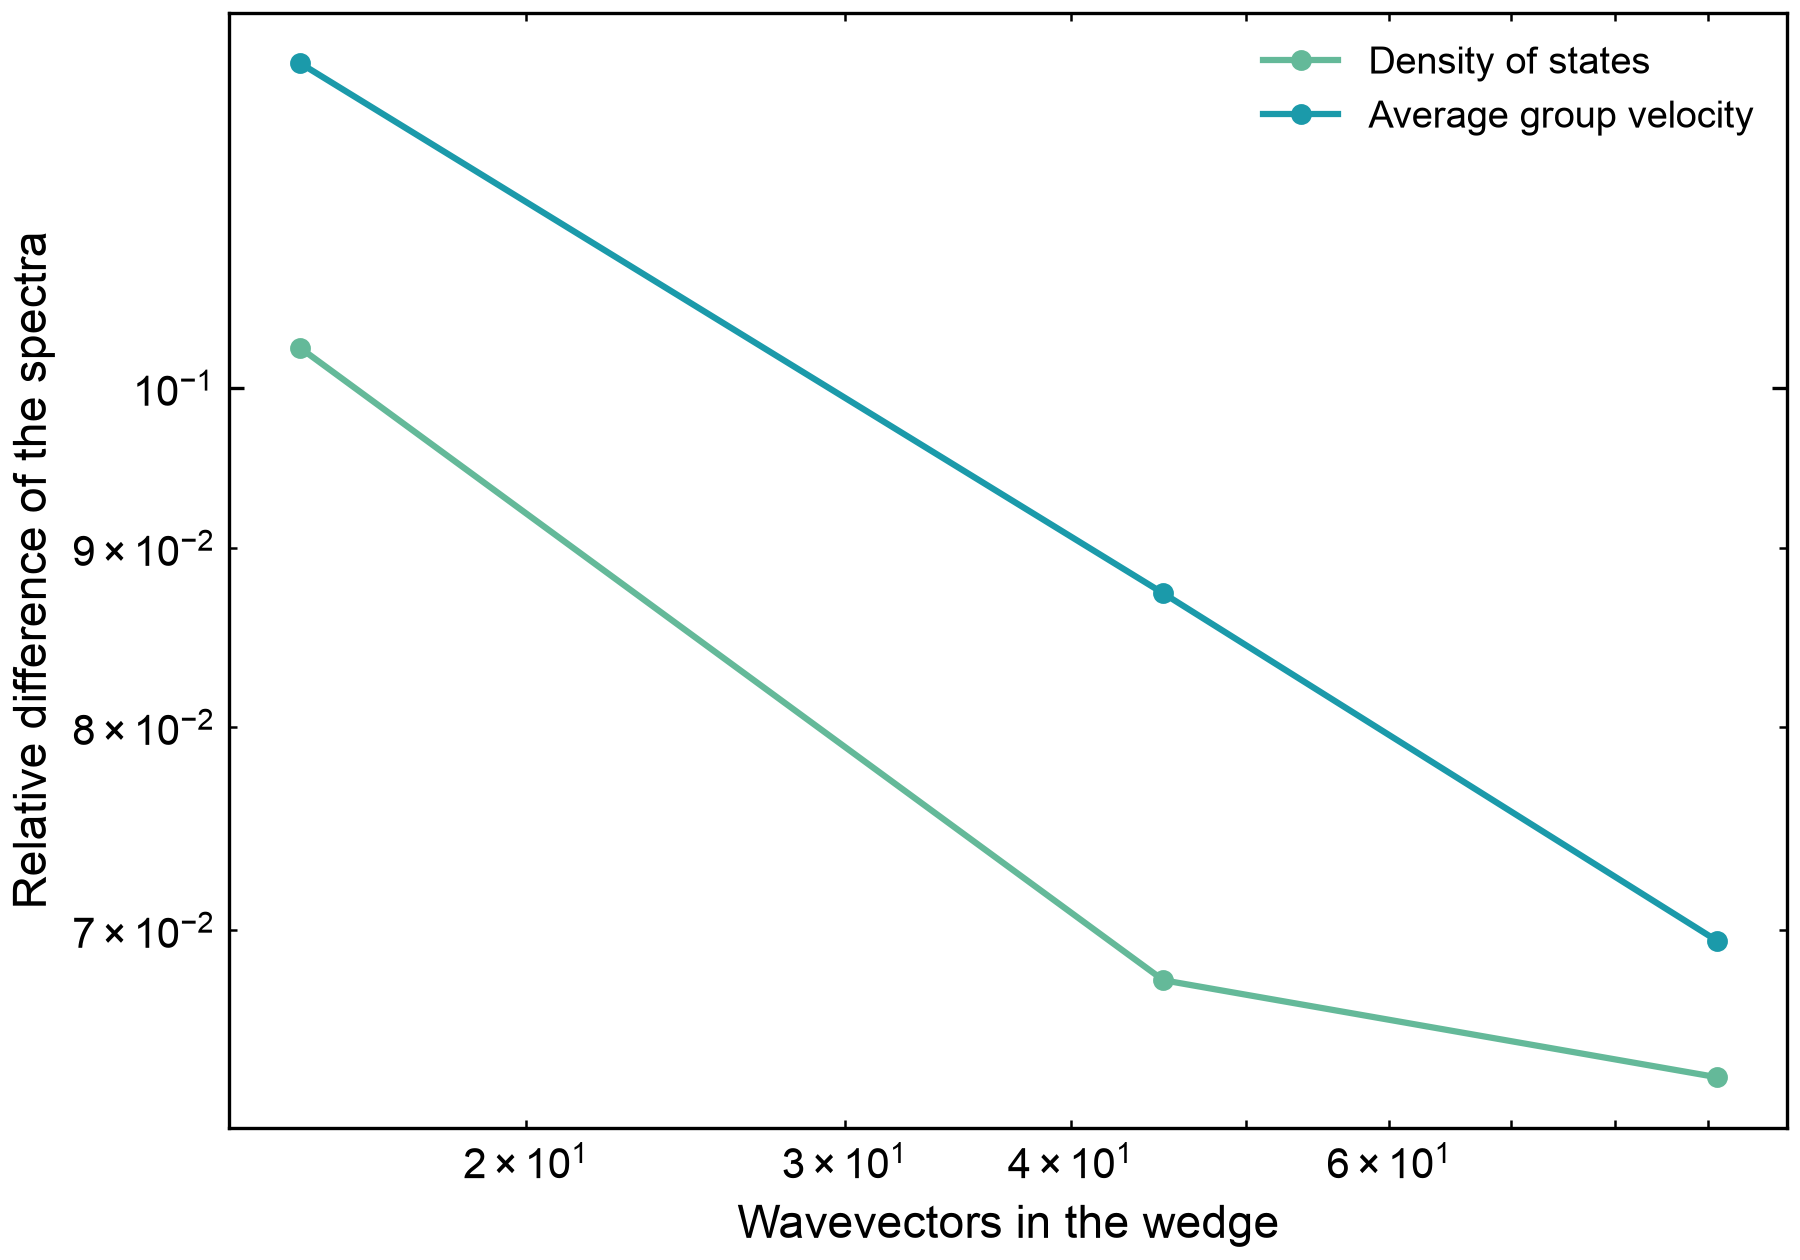
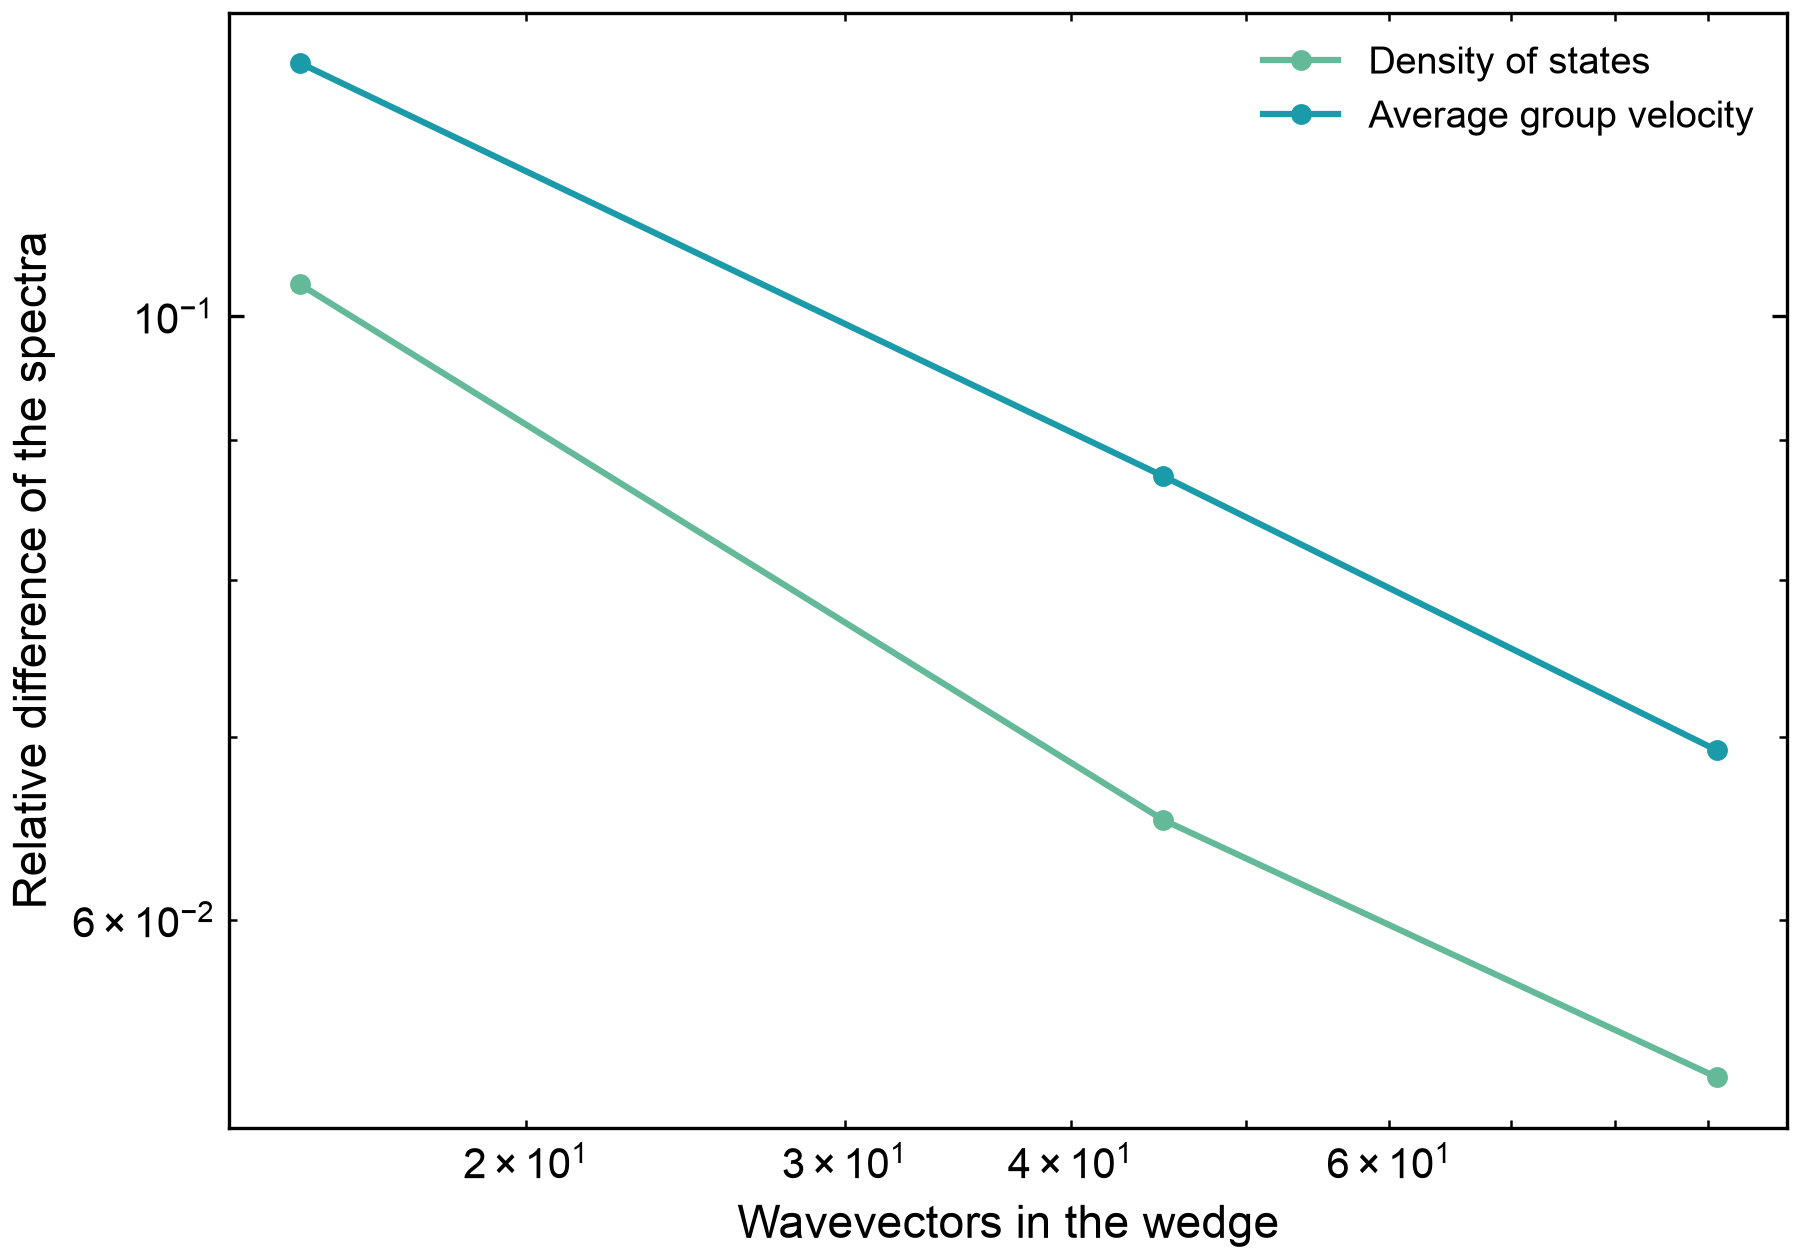
Document where the computed bands stop being complete
The lowest value of the topmost band over the zone, not the highest
frequency reached anywhere, and the show_incomplete switch.

diff --git a/docs/model-file.md b/docs/model-file.md
@@ -493,11 +493,13 @@ Spectra (`kind = "spectrum"`) sum the whole mesh into one curve against frequenc
 | `velocity` | the group velocity \|v\| = 2π\|∇ₖf\| averaged over the states at that frequency, weighted as the density of states is | m/s |
 | `flux` | the energy a convex boundary at `temperature` radiates into the structure, averaged over its directions | W Hz⁻¹ m⁻¹ (per unit length of that boundary) |
 
-A mesh of the irreducible wedge is multiplied by the number of copies that fill the zone (8 for a square lattice, 12 for a hexagonal one), taken from the area the mesh covers, which assumes what the wedge assumes: that the cell has the point symmetry of the lattice. Every band takes part; the curve falls away near the highest computed frequency, where the bands run out rather than the states, and near zero a branch is a cone that no triangulation resolves. `temperature` (the flux only) is an expression such as `"0.3[K]"`. A run writes each spectrum as `<name>.csv`. Reference: the methods of Zen et al., *Nat. Commun.* **5**:3435 (2014).
+A mesh of the irreducible wedge is multiplied by the number of copies that fill the zone (8 for a square lattice, 12 for a hexagonal one), taken from the area the mesh covers, which assumes what the wedge assumes: that the cell has the point symmetry of the lattice. Every band takes part. `temperature` (the flux only) is an expression such as `"0.3[K]"`. A run writes each spectrum as `<name>.csv`. Reference: the methods of Zen et al., *Nat. Commun.* **5**:3435 (2014).
+
+**Where the bands stop being complete.** A run computes a fixed number of bands at every wavevector, so every state is accounted for only below the *lowest* value the topmost band takes over the zone — often at Γ, where the folded bands of a membrane crowd together, though it can be at any corner of the zone. That frequency, not the highest one reached anywhere, is where a spectrum ends: above it states are missing and the curve sags towards zero, which looks like a physical cut-off and is not. Spectra and conductance curves stop there by default; `show_incomplete = true` carries them on as a lower bound and marks the frequency with a dashed line. If the topmost band itself falls to zero somewhere (too few bands for a membrane, whose acoustic branches vanish at Γ) no range is complete at all, and the plot says so. Near zero a branch is a cone that no triangulation resolves, so the lowest frequencies are unreliable at either end.
 
 Conductance plots (`kind = "conductance"`) integrate that heat flux over the computed bands and draw it against temperature, log-log by default: `transport` chooses between `conductance` (the ballistic thermal conductance G = dP/dT, in W K⁻¹ m⁻¹) and `power` (the radiated power P(T), in W m⁻¹), both per unit length of the boundary heat enters through. The curve runs from `t_min` to `t_max` over `t_points` points, spaced logarithmically while the x axis is, and `bins` sets the frequency quadrature as for a spectrum. The contour lengths do not depend on the temperature, so the mesh is summed once for the whole curve.
 
-**The integral stops at the highest computed band**, so a curve is a lower bound once the occupied frequencies k<sub>B</sub>T/h approach it, and it flattens instead of rising: a trustworthy point needs bands reaching roughly nine times k<sub>B</sub>T/h (19 GHz covers 99 % of the phonons at 0.1 K). The plot panel compares the two and says where the curve stops being reliable; raising `num_eigs` carries it higher. A run writes the curve as `<name>.csv`.
+**The integral stops where the bands stop being complete** (above), so a curve is a lower bound once the occupied frequencies k<sub>B</sub>T/h approach that line, and it flattens instead of rising: a trustworthy point needs complete bands up to roughly nine times k<sub>B</sub>T/h (19 GHz covers 99 % of the phonons at 0.1 K). The plot panel compares the two and says where the curve stops being reliable; raising `num_eigs` carries it higher. A run writes the curve as `<name>.csv`.
 
 Field plots (`kind = "field"`) show `quantity` on the structure (field results; empty = T or the displacement magnitude): any expression of the solution, evaluated at the nodes (gradients, fluxes, strains and stresses averaged over the elements meeting there), e.g. `"sqrt(qx^2 + qy^2 + qz^2)"` or `"mises"`. Mode shapes take `component` instead (`|u|` (default), `ux`, `uy`, `uz`). Under `[plots.style]`: `colormap`, `colorbar`, `title`, `outline` (undeformed outline) and `deform_scale` (largest displacement as a fraction of the model size).
 
@@ -512,7 +514,8 @@ Field plots (`kind = "field"`) show `quantity` on the structure (field results; 
 | `bands` | `6` | `surfaces`: how many bands are drawn from `band` up (0 = all) |
 | `ky_min`, `ky_max` | `""` | `kmap`, `surfaces`: range of the ky axis (`x_min`, `x_max` give the kx range) |
 | `spectrum` | `"dos"` | `spectrum`: `dos`, `velocity` or `flux` |
-| `bins` | `200` | `spectrum`: how many frequencies it is sampled at |
+| `bins` | `200` | `spectrum`, `conductance`: how many frequencies the curve or its integral is sampled at |
+| `show_incomplete` | `false` | `spectrum`, `conductance`: carry past the frequency where the bands stop being complete, marking it |
 | `temperature` | `"1[K]"` | `spectrum`, `flux`: temperature of the radiating boundary |
 | `transport` | `"conductance"` | `conductance`: `conductance` (G = dP/dT) or `power` (P) |
 | `t_min`, `t_max` | `"0.05[K]"`, `"1[K]"` | `conductance`: the temperature range of the curve |

diff --git a/docs/validation/report.md b/docs/validation/report.md
@@ -37,7 +37,7 @@ $$
 D(f) = \frac{1}{(2\pi)^2}\sum_j \frac{2\pi k_j}{|\mathrm{d}f/\mathrm{d}k|_j},\qquad \langle v\rangle(f) = 2\pi\frac{\sum_j k_j}{\sum_j k_j/|\mathrm{d}f/\mathrm{d}k|_j},
 $$
 
-evaluated on a dense grid of the exact branches. The two routes share nothing: one is a finite-element eigenproblem sampled over a two-dimensional zone of an invented cell, the other a one-dimensional analytic dispersion rotated in k-space. They must still agree, because the artificial cell only folds the states into its zone and folding moves no state. The comparison runs to $$ \omega t / c_\mathrm{T} = 10 $$, below which every computed band is present.
+evaluated on a dense grid of the exact branches. The two routes share nothing: one is a finite-element eigenproblem sampled over a two-dimensional zone of an invented cell, the other a one-dimensional analytic dispersion rotated in k-space. They must still agree, because the artificial cell only folds the states into its zone and folding moves no state. The comparison runs to $$ \omega t / c_\mathrm{T} = 10 $$, which is below the frequency where the sixteen computed bands stop being complete — the lowest value the topmost of them takes over the zone, not the highest frequency any of them reaches.
 
 What is left over is the price of sampling. Bands are numbered by ascending frequency at each wavevector, so where two branches cross, the surfaces kink; a mesh of flat triangles cuts those corners and flattens the gradients. The density of states weights each contour by the gradient and feels this only weakly, while the group velocity and everything built on the contour length alone (the heat flux, the conductance) carry a systematic deficit. Both shrink as the wavevector mesh is refined, and both are the argument for sorting the surfaces into branches, which this release does not do. The last check is the quantity those spectra are for: the ballistic conductance at 0.1 K, with both routes integrated over the same window, so that what is compared is the sampling of the zone and not the states left above it.
 
@@ -45,9 +45,9 @@ What is left over is the price of sampling. Bands are numbered by ascending freq
 
 <figure><img src="../images/validation/zone_convergence.png" alt="Both spectra approach the exact ones as the wavevector mesh is refined; the finite-element mesh is unchanged throughout, so what converges here is the sampling of the zone."><figcaption><p>Both spectra approach the exact ones as the wavevector mesh is refined; the finite-element mesh is unchanged throughout, so what converges here is the sampling of the zone.</p></figcaption></figure>
 
-Wavevectors 15 / 45 / 91: the density of states differs from the exact one by 10.3 %, 6.8 %, 6.4 %, the group velocity by 12.4 %, 8.7 %, 7.0 %. Over the same window the states below it carry 4.04e-07 W/(K m) at 0.1 K, against 4.57e-07 W/(K m) exactly (-12 %).
+Wavevectors 15 / 45 / 91: the density of states differs from the exact one by 10.3 %, 6.5 %, 5.3 %, the group velocity by 12.4 %, 8.7 %, 6.9 %. Over the same window the states below it carry 4.04e-07 W/(K m) at 0.1 K, against 4.57e-07 W/(K m) exactly (-12 %).
 
-**Checks:** ✅ ballistic conductance at 0.1 K: 1.16e-01 (≤ 1.50e-01); ✅ density of states, finest mesh: 6.35e-02 (≤ 8.00e-02); ✅ average group velocity, finest mesh: 6.95e-02 (≤ 1.20e-01); ✅ density of states improves with the mesh: 6.19e-01 (≤ 8.00e-01); ✅ group velocity improves with the mesh: 5.61e-01 (≤ 8.00e-01). Run time 75 s.
+**Checks:** ✅ ballistic conductance at 0.1 K: 1.16e-01 (≤ 1.50e-01); ✅ density of states, finest mesh: 5.25e-02 (≤ 8.00e-02); ✅ average group velocity, finest mesh: 6.92e-02 (≤ 1.20e-01); ✅ density of states improves with the mesh: 5.11e-01 (≤ 8.00e-01); ✅ group velocity improves with the mesh: 5.59e-01 (≤ 8.00e-01). Run time 67 s.
 
 ### Free vibrations of an elastic sphere
 
